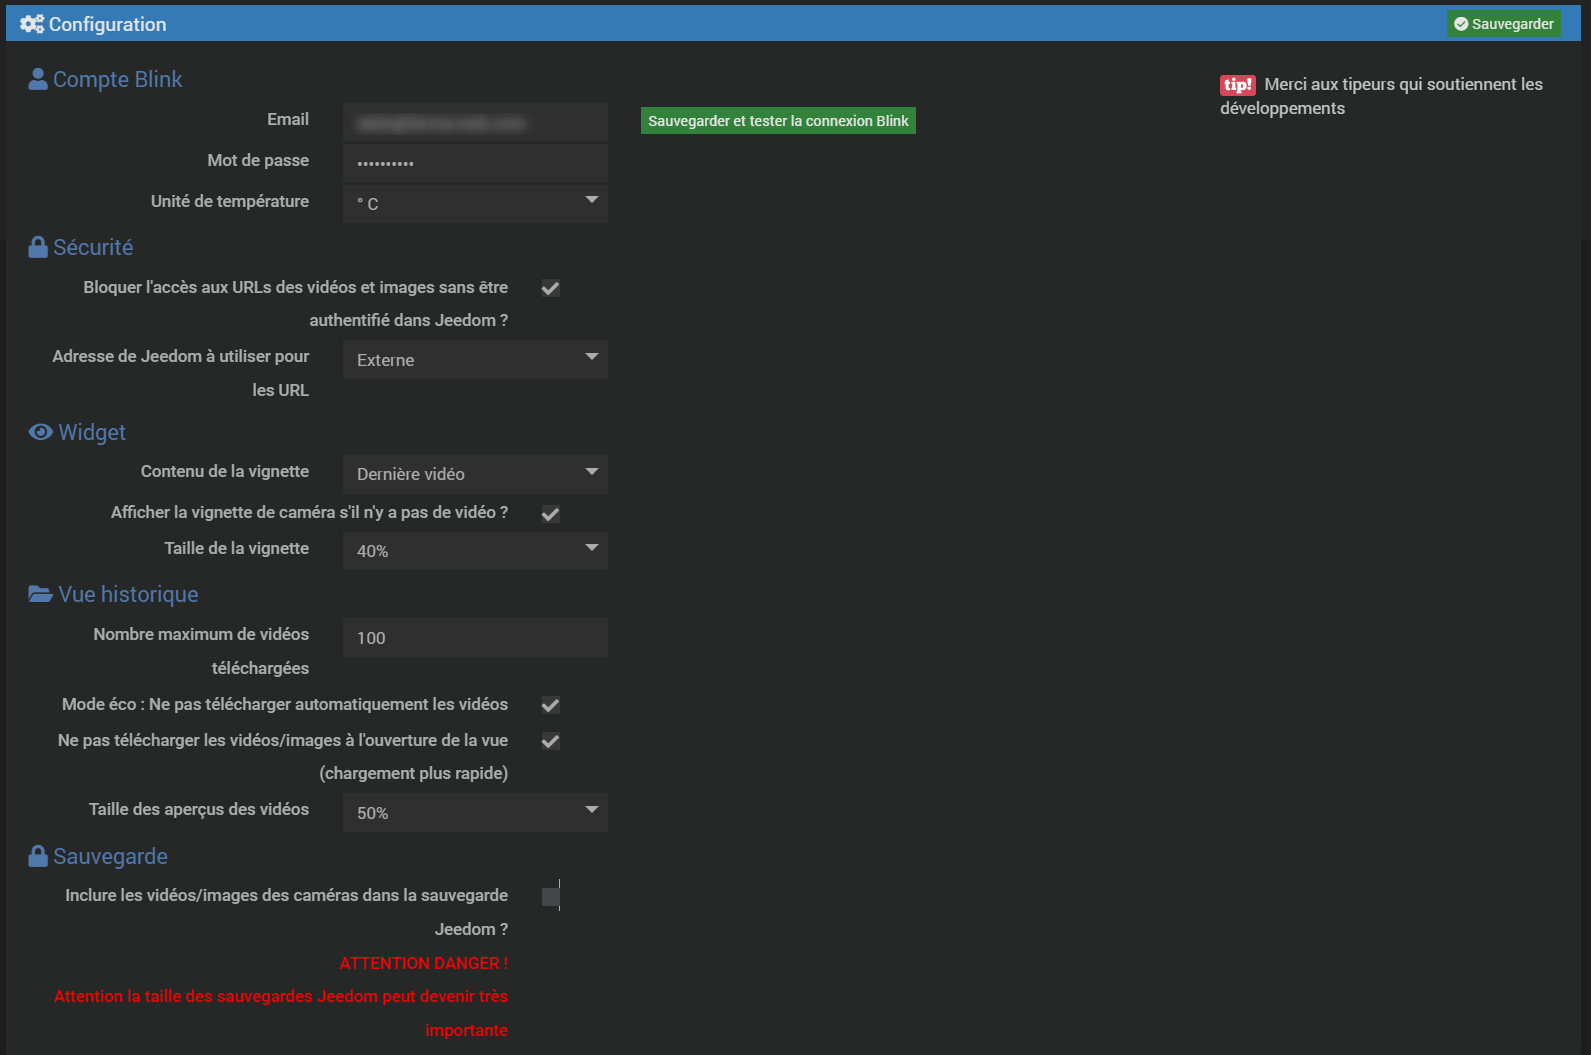
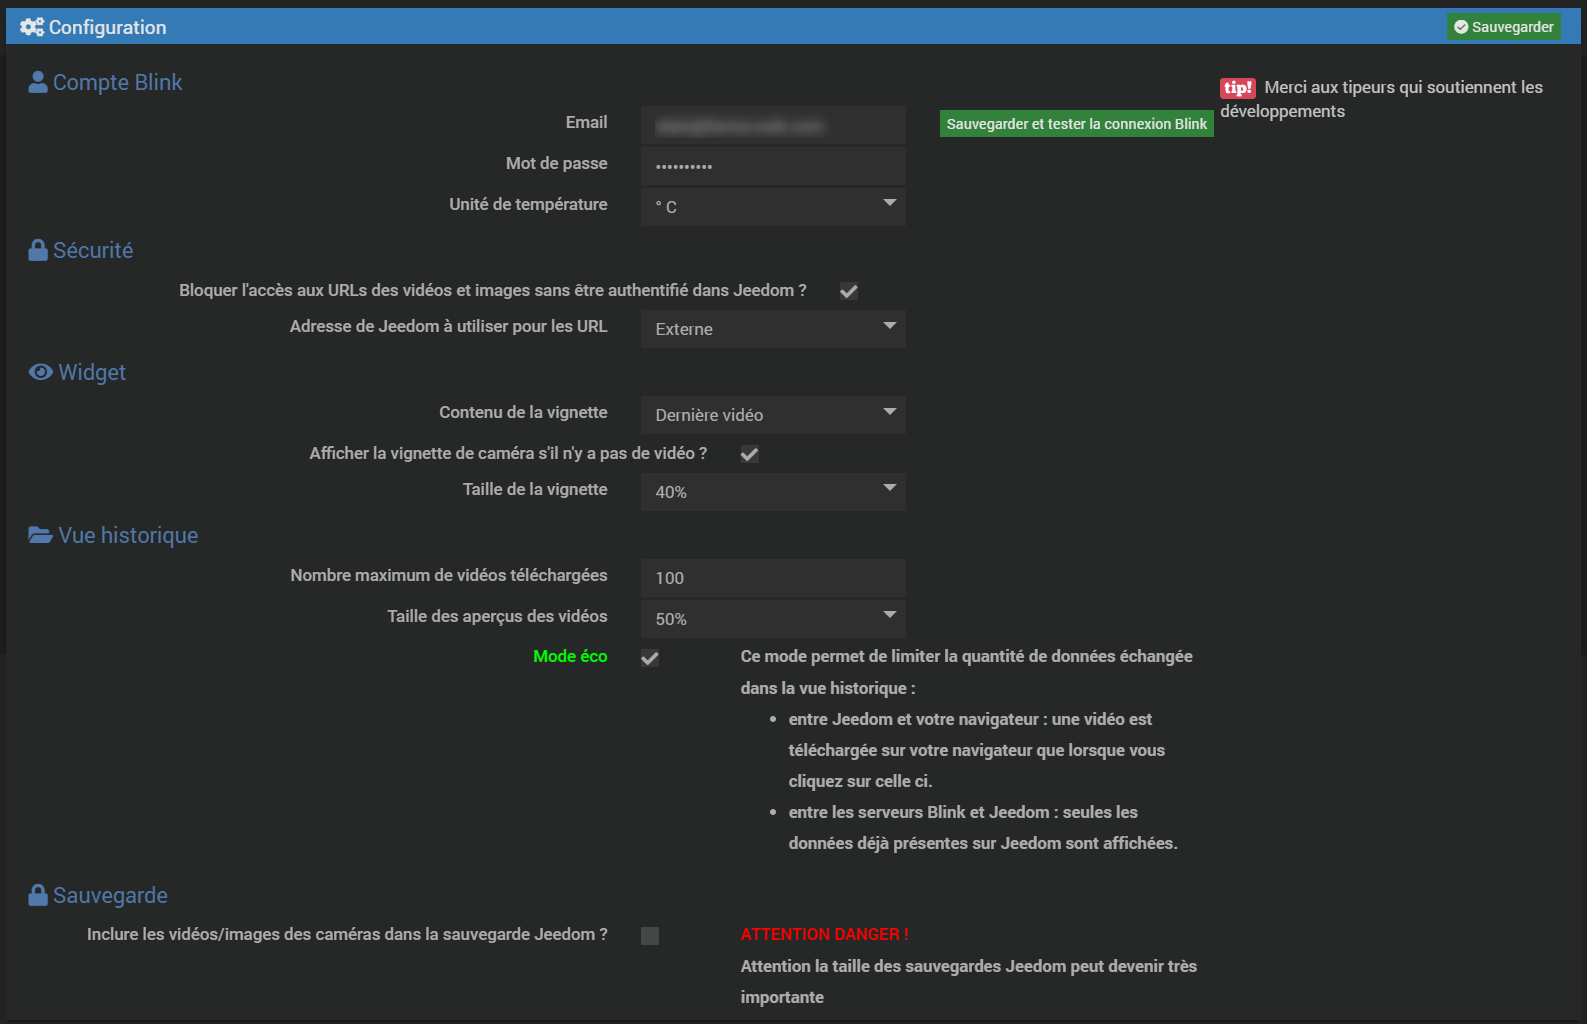
modif "lazy upload"

diff --git a/plugin_info/configuration.php b/plugin_info/configuration.php
@@ -36,16 +36,16 @@ if (!isConnect()) {
     <fieldset>
         <h4 class="icon_blue"><i class="fa fa-user"></i> {{Compte Blink}}</h4>
         <div class="form-group">
-             <label class="col-lg-3 control-label">{{Email}}</label>
+             <label class="col-lg-6 control-label">{{Email}}</label>
             <div class="col-lg-3">
                 <input class="configKey form-control" data-l1key="param1" />
             </div>
-            <div class="col-lg-3">
+            <div class="col-lg-1">
                 <a id="bt_test_blink" class="btn btn-success btn-xs">{{Sauvegarder et tester la connexion Blink}}</a>
             </div>
         </div>
         <div class="form-group">
-            <label class="col-lg-3 control-label">{{Mot de passe}}</label>
+            <label class="col-lg-6 control-label">{{Mot de passe}}</label>
             <div class="col-lg-3">
                 <input type="password" class="configKey form-control" data-l1key="param2"/>
             </div>
@@ -60,7 +60,7 @@ if (!isConnect()) {
             <label class="col-lg-9 control-label text-danger">{{Vous allez recevoir un SMS de Blink avec un code pin, vous devez le renseigner ici et cliquer sur le bouton "Envoyer".}}</label>
         </div>
         <div class="form-group">
-            <label class="col-lg-3 control-label">{{Code PIN de vérification}}</label>
+            <label class="col-lg-6 control-label">{{Code PIN de vérification}}</label>
             <div class="col-lg-3">
                 <input  class="form-control" id="pincode"/>
             </div>
@@ -71,7 +71,7 @@ if (!isConnect()) {
         </div>
         </div>
         <div class="form-group">
-            <label class="col-lg-3 control-label">{{Unité de température}}</label>
+            <label class="col-lg-6 control-label">{{Unité de température}}</label>
             <div class="col-lg-3">
                 <select  class="configKey form-control" data-l1key="blink_tempUnit">
                     <option value="C">{{° C}}</option>
@@ -81,13 +81,13 @@ if (!isConnect()) {
         </div>
         <h4 class="icon_blue"><i class="fa fa-lock"></i> {{Sécurité}}</h4>
         <div class="form-group" id="medias_security">
-            <label class="col-lg-5 control-label">{{Bloquer l'accès aux URLs des vidéos et images sans être authentifié dans Jeedom ?}}</label>
+            <label class="col-lg-8 control-label">{{Bloquer l'accès aux URLs des vidéos et images sans être authentifié dans Jeedom ?}}</label>
             <div class="col-lg-1">
                 <input  type="checkbox"class="configKey form-control" data-l1key="medias_security"/>
             </div>
         </div>
         <div class="form-group">
-            <label class="col-lg-3 control-label">{{Adresse de Jeedom à utiliser pour les URL}}</label>
+            <label class="col-lg-6 control-label">{{Adresse de Jeedom à utiliser pour les URL}}</label>
             <div class="col-lg-3">
                 <select  class="configKey form-control" data-l1key="blink_base_url">
                     <option value="internal">{{Interne}}</option>
@@ -98,7 +98,7 @@ if (!isConnect()) {
 
         <h4 class="icon_blue"><i class="fa fa-eye"></i> {{Widget}}</h4>
         <div class="form-group">
-            <label class="col-lg-3 control-label">{{Contenu de la vignette}}</label>
+            <label class="col-lg-6 control-label">{{Contenu de la vignette}}</label>
             <div class="col-lg-3">
                 <select  id="thumb_type_select" class="configKey form-control" data-l1key="blink_dashboard_content_type">
                     <option value="1">{{Vignette de la caméra}}</option>
@@ -108,7 +108,7 @@ if (!isConnect()) {
             </div>
         </div>
         <div class="form-group" id="fallback_thumb">
-            <label class="col-lg-5 control-label">{{Afficher la vignette de caméra s'il n'y a pas de vidéo ?}}</label>
+            <label class="col-lg-7 control-label">{{Afficher la vignette de caméra s'il n'y a pas de vidéo ?}}</label>
             <div class="col-lg-1">
                 <input  id='fallback_checkbox' type="checkbox"class="configKey form-control" data-l1key="fallback_to_thumbnail"/>
             </div>
@@ -117,7 +117,7 @@ if (!isConnect()) {
             </div>
         </div>
         <div class="form-group">
-            <label class="col-lg-3 control-label">{{Taille de la vignette}}</label>
+            <label class="col-lg-6 control-label">{{Taille de la vignette}}</label>
             <div class="col-lg-3">
                 <select  class="configKey form-control" data-l1key="blink_size_thumbnail">
                     <option value="-1.0">{{Largeur du widget}}</option>
@@ -129,27 +129,16 @@ if (!isConnect()) {
                 </select>
             </div>
         </div>
+        
         <h4 class="icon_blue"><i class="fa fa-folder-open"></i> {{Vue historique}}</h4>
         <div class="form-group">
-            <label class="col-lg-3 control-label">{{Nombre maximum de vidéos téléchargées}}</label>
+            <label class="col-lg-6 control-label">{{Nombre maximum de vidéos téléchargées}}</label>
             <div class="col-lg-3">
                 <input type="number" class="configKey form-control" data-l1key="nb_max_video" min="0" />
             </div>
         </div>
         <div class="form-group">
-            <label class="col-lg-5 control-label">{{Mode éco : Ne pas télécharger automatiquement les vidéos}}</label>
-            <div class="col-lg-1">
-                <input  id='fallback_checkbox' type="checkbox"class="configKey form-control" data-l1key="lazyLoadVideo"/>
-            </div>
-        </div>
-        <div class="form-group" id="offline_history">
-            <label class="col-lg-5 control-label">{{Ne pas télécharger les vidéos/images à l'ouverture de la vue (chargement plus rapide)}}</label>
-            <div class="col-lg-1">
-                <input  id='offline_history' type="checkbox"class="configKey form-control" data-l1key="offline_history"/>
-            </div>
-        </div>
-        <div class="form-group">
-            <label class="col-lg-3 control-label">{{Taille des aperçus des vidéos}}</label>
+            <label class="col-lg-6 control-label">{{Taille des aperçus des vidéos}}</label>
             <div class="col-lg-3">
                 <select  class="configKey form-control" data-l1key="blink_size_videos">
                     <option value="0.1">10%</option>
@@ -165,12 +154,21 @@ if (!isConnect()) {
                 </select>
             </div>
         </div>
+
+        <div class="form-group">
+            <label class="col-lg-6 control-label">{{Mode eco}}</label>
+            <div class="col-lg-1">
+                <input  id='fallback_checkbox' type="checkbox"class="configKey form-control" data-l1key="mode_eco"/>
+            </div>
+            <label class="col-lg-5">{{Mode eco desc}}</label>
+        </div>
         <h4 class="icon_blue"><i class="fa fa-lock"></i> {{Sauvegarde}}</h4>
-        <div class="form-group" id="medias_security">
-            <label class="col-lg-5 control-label">{{Inclure les vidéos/images des caméras dans la sauvegarde Jeedom ?}}</label>
+        <div class="form-group" id="medias_backup">
+            <label class="col-lg-6 control-label">{{Inclure les vidéos/images des caméras dans la sauvegarde Jeedom ?}}</label>
             <div class="col-lg-1">
                 <input  type="checkbox"class="configKey form-control" data-l1key="include_medias_in_backup"/>
             </div>
+            <label class="col-lg-5">{{backup desc}}</label>
         </div>
   </fieldset>
 </form>

diff --git a/desktop/modal/blink_camera.history.php b/desktop/modal/blink_camera.history.php
@@ -103,7 +103,7 @@ if ($nbMax <= 0) {
 }
 $cptVideo=0;
 if ($thumbFilter=='') {
-    if ($storage!='local' && $blink_camera->isConnected() && $blink_camera->getToken() && ((boolean) config::byKey('offline_history', 'blink_camera'))===false) {
+    if ($storage!='local' && $blink_camera->isConnected() && $blink_camera->getToken() && blink_camera::isModeEco()===false) {
         $blink_camera->forceCleanup(true);
     }
     log::add('blink_camera','debug','History['.$blink_camera->getId().'] Avant scandir');
@@ -212,19 +212,19 @@ foreach ($videoFiltered as $date => $videoByDate) {
         echo '<center style="margin-top:5px;">';
         if (strpos($file, '.mp4')) {
             $strVideo="";
-            if (blink_camera::lazyLoadVideo()) {
+            if (blink_camera::isModeEco()) {
                 $strVideo.="<div id=\"video-overlay-".$cptVideo."\">";
                 $strVideo.="<img height=\"".$newHeight."\" src=\"core/php/downloadFile.php?pathfile=" . urlencode($dir . '/' . str_replace(".mp4",".jpg",$file))."\"/>";
-                $strVideo.="<span style=\" position: absolute;top: 50%;left: 50%;transform: translate(-50%, -50%);\"><i style=\"font-size:3em;\" class=\"icon font-awesome-play-circle icon_blue\"></i></span>";
+                $strVideo.="<span style=\" position: absolute;top: 50%;left: 50%;transform: translate(-50%, -50%);\"><i style=\"font-size:5em;\" class=\"icon font-awesome-play-circle icon_green\"></i></span>";
                 $strVideo.="</div>";
             }
             $strVideo.= "<video id=\"video-".$cptVideo."\" class=\"displayVideo\"";
-            if (blink_camera::lazyLoadVideo()) {
+            if (blink_camera::isModeEco()) {
                 $strVideo.= " preload=\"none\" poster=\"core/php/downloadFile.php?pathfile=" . urlencode($dir . '/' . str_replace(".mp4",".jpg",$file)) . "\" ";
             }
             $strVideo.=" height=\"".$newHeight."\" controls loop data-src=\"core/php/downloadFile.php?pathfile=".urlencode($dir . '/' . $file)."\" style=\"cursor:pointer\"><source src=\"core/php/downloadFile.php?pathfile=".urlencode($dir.'/'.$file)."\">Your browser does not support the video tag.</video>";
             echo $strVideo;
-            if (blink_camera::lazyLoadVideo()) {
+            if (blink_camera::isModeEco()) {
 ?>
              <script>
                     var overlay<?=$cptVideo?>         = document.getElementById('video-overlay-<?=$cptVideo?>'),

diff --git a/core/class/blink_camera.class.php b/core/class/blink_camera.class.php
@@ -1729,8 +1729,8 @@ file_put_contents($folderJson,json_encode($jsonrep));
     {
         return __DIR__.'/../../medias/'.$this->getId();
     }
-    public static function lazyLoadVideo() {
-        return (boolean) config::byKey('lazyLoadVideo', 'blink_camera');
+    public static function isModeEco() {
+        return (boolean) config::byKey('mode_eco', 'blink_camera');
     }
     public function networkArm()
     {
